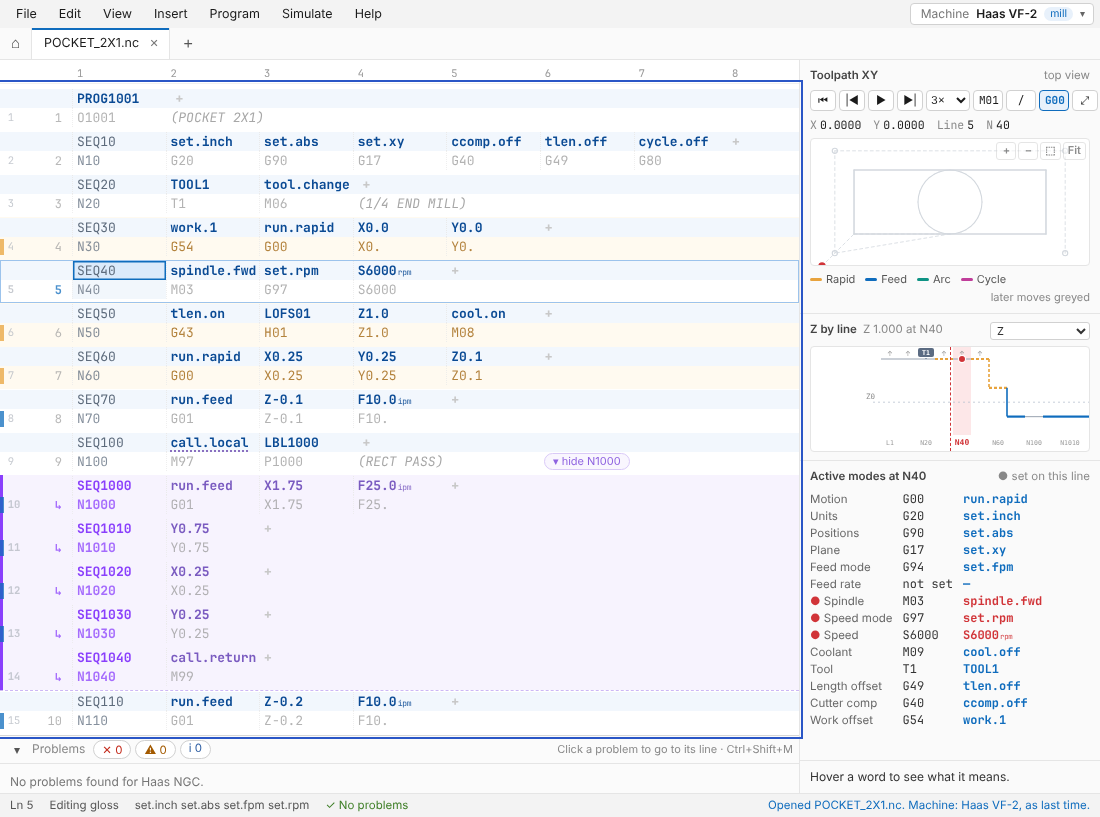
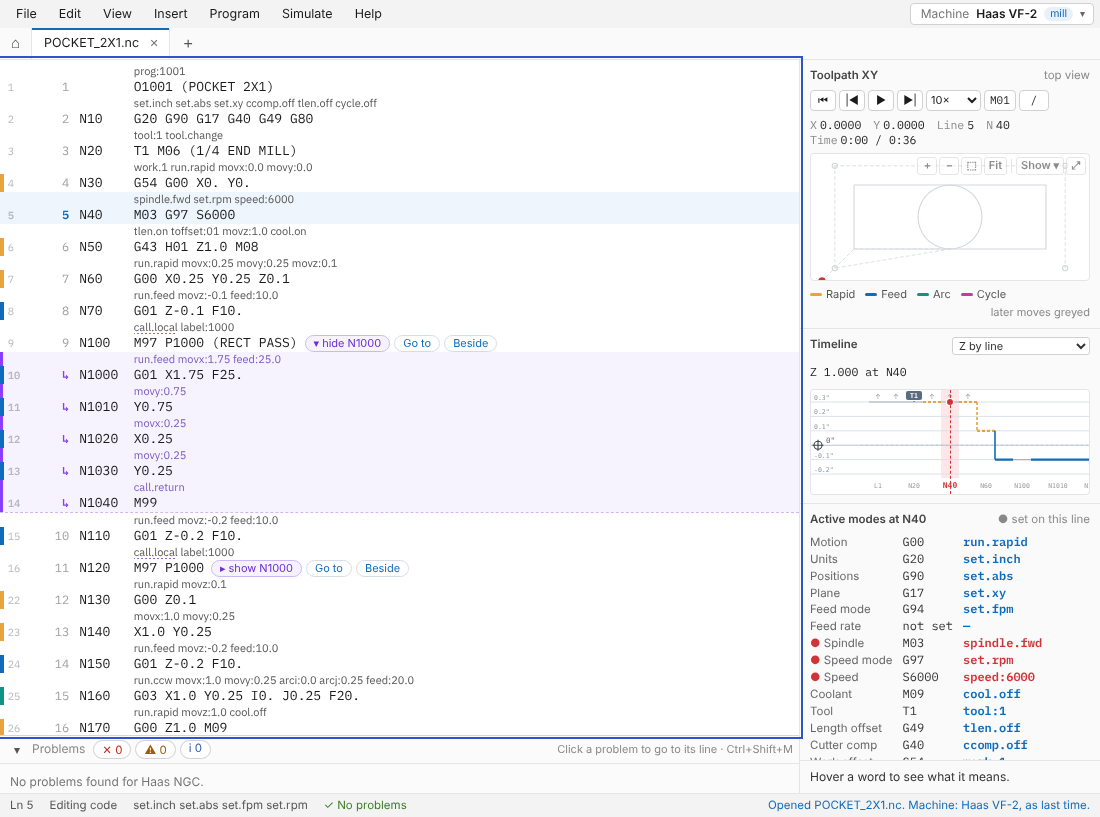
Retake README pictures from the current app
The README pictures were taken before the gloss-above-code text view,
the IBM Plex fonts, the new menus and the sim time display. Retake a
smaller set of eight from the sample programs: editor, simulation,
Problems panel, lathe, subprogram pane, Insert cycle, New program
picker and Convert. Drop the pictures no longer used, and fix the
"grey italics" wording and the mention of the removed older layouts.

Claude-Session: https://claude.ai/code/session_01DvnM2DC3NEwT8bToAWuf9H

diff --git a/README.md b/README.md
@@ -10,11 +10,11 @@ GlossCode is a G-code editor that shows a gloss line in plain English above ever
 >
 > **Supported controls.** The tables were checked against programming manuals for: Haas (NGC, classic and 1995 controls), Fanuc 0i-F/0i-D and Series 0, Okuma OSP mills and lathes (P300M, P200L, E100L, U10L and OSP700L), LinuxCNC, Tormach PathPilot, GRBL, Centroid CNC12, Mazak EIA/ISO, Hurco WinMax NC (ISNC), Mitsubishi M800/M80 mills and lathes and the M700/M70 M2/M0 format, Fanuc Custom Macro B expressions (from the 21i manual), Fagor 8055 mills and lathes, Fagor 8060/8065 mills and lathes (the lathe a first draft, still marked unverified), Heidenhain TNC 640 Klartext (a first draft, still marked unverified) Siemens SINUMERIK ISO mode, and Hypertherm Phoenix/EDGE plasma (still marked unverified). How sure we are of each is in [`docs/manual-reviews/control-confidence.md`](docs/manual-reviews/control-confidence.md). Some features of each are still unchecked; the reviews in [`docs/manual-reviews/`](docs/manual-reviews/) list them. **Any other control** (for example Heidenhain ISO programs, native Siemens programs, wire EDM, laser or waterjet) **hasn't been checked against a manual.** On those, GlossCode uses generic Fanuc-style rules, which may not match what your control does.
 
-![GlossCode editor mockup](docs/images/editor-overview.png)
+![The GlossCode editor](docs/images/editor-overview.png)
 
 ## What it looks like
 
-Each line of code has its gloss above it in small grey italics, and its N number in a column of its own:
+Each line of code has its gloss above it in small grey text, and its N number in a column of its own:
 
 ```
        spindle.fwd set.rpm speed:6000
@@ -26,41 +26,17 @@ N50    G43 H01 Z1.0 M08
 
 The gloss words come from a dictionary of consistent abbreviations ([`data/gcode-words.json`](data/gcode-words.json)). Each code has a full word and a short one. Full words (the default) name what the code does as a group, then the action, such as `run.rapid` (G00), `run.feed` (G01), `set.inch` (G20), `tlen.on` (G43) and `cycle.peck` (G83). There are 20 fixed groups: `run` is for moves and other things the machine does on that line, `set` for modes that stay in effect, `cycle` for canned cycles, `call` and `flow` for subprograms and jumps, `prog` for the program itself, and a feature name (`spindle`, `cool`, `tool`, `tlen`, `ccomp`, `work`, `probe`, `thread`, `torch` and others) for the rest. Short words are the compact style: 3 to 8 characters, made from the group's core letters, an optional alternate and the option (`SFWD` spindle forward, `S2FWD` on the second spindle, `CON` coolant on, `TLON`, `WRK1` for G54, `INCH` and `INCR`). Two letters are used only for a standard abbreviation or a two-letter word (`MM`, `XY`, `IF`, `DO`). Codes that only some controls have are underlined with dots. A word with a value is its name, a colon and the value in full words (`tool:1`, `toffset:01`, `movz:1.0`, `speed:6000`), and the name and value run together in short words (`T1`, `H01`, `Z1.0`, `S6000`). N numbers read as written (`N40`). Numbers always show their decimal point (`X1.` reads `X1.0`), and a distance written without one is shown the way the control reads it, so `X1` reads `X0.0001`. Full words leave the unit off (`speed:600`); the info panel says whether it's RPM or surface speed. Short words keep a small unit that follows the active modes, so `S600` reads `S600 rpm` under G97 and `S600 sfm` under G96.
 
-| Full words | Short words | Gloss only |
-|---|---|---|
-| ![Full words](docs/images/editor-overview.png) | ![Short words](docs/images/short-words.png) | ![Gloss only](docs/images/gloss-only.png) |
-
-| Simulation | Find |
+| Simulation | Problems panel |
 |---|---|
-| ![Simulation](docs/images/simulation.png) | ![Find](docs/images/find.png) |
+| ![Simulation partway through a program, with the run time](docs/images/simulation.png) | ![Problems panel with mistakes found on purpose](docs/images/problems.png) |
 
-| Problems panel | Lathe checks | Okuma mill |
-|---|---|---|
-| ![Problems panel](docs/images/problems.png) | ![Lathe checks](docs/images/lathe-checks.png) | ![Okuma mill](docs/images/okuma-mill.png) |
-
-| Expanded simulation view |
-|---|
-| ![Expanded simulation view](docs/images/simulation-expanded.png) |
-
-| Word hints | Canned cycle guide | End of block |
-|---|---|---|
-| ![Word hints](docs/images/word-hints.png) | ![Canned cycle guide](docs/images/cycle-guide.png) | ![End of block](docs/images/end-of-block.png) |
-
-| Home page | New program: pick a machine |
+| Lathe | Subprogram beside the program |
 |---|---|
-| ![Home page with recent programs](docs/images/home-page.png) | ![Choosing the machine for a new program](docs/images/machine-picker.png) |
+| ![A lathe program with the XZ toolpath and X timeline](docs/images/lathe.png) | ![A subprogram open in the pane beside the program](docs/images/subprogram-beside.png) |
 
-| Machine picker | Machine profiles | Open dialog |
-|---|---|---|
-| ![Machine picker](docs/images/machine-menu.png) | ![Machine profiles](docs/images/machine-profiles.png) | ![Open dialog](docs/images/native-open-dialog.png) |
-
-| Hole pattern: grid | Hole pattern: bolt circle | Holes inserted |
-|---|---|---|
-| ![Hole pattern grid](docs/images/hole-pattern-grid.png) | ![Hole pattern bolt circle](docs/images/hole-pattern-circle.png) | ![Holes inserted](docs/images/hole-pattern-inserted.png) |
-
-| Insert menu (lathe) | Insert a drilling cycle | Insert a roughing cycle |
-|---|---|---|
-| ![Insert menu](docs/images/insert-menu.png) | ![Insert a drilling cycle](docs/images/insert-cycle.png) | ![Insert a roughing cycle](docs/images/insert-cycle-lathe.png) |
+| Insert a canned cycle | New program: pick a machine |
+|---|---|
+| ![Insert a peck drilling cycle](docs/images/insert-cycle.png) | ![Choosing the machine for a new program](docs/images/machine-picker.png) |
 
 | Convert to another control |
 |---|
@@ -72,7 +48,7 @@ The gloss words come from a dictionary of consistent abbreviations ([`data/gcode
 - Menu bar (File, Edit, View, Insert, Program, Simulate), undo and redo, and Find that matches both code and gloss.
 - Starts on a home page with recent programs, New program and Open. Each open program gets a tab, and each tab remembers its machine and the selected line and word.
 - A new program asks which machine it's for. A file opened before reopens with the same machine; any other file uses the default machine for its extension (.nc, .MIN…) if one is set, and otherwise asks, with the controls the file looks written for (from its extension and its text: CALL and RTS mean Okuma, BEGIN PGM Klartext) suggested at the top.
-- The default layout shows each line as plain text, its N number in a column on the left and the gloss above it in small grey italics (`speed:2100 spindle.fwd` over `S2100 M03`). Click a line and type, as in any text editor; the gloss follows. In the older layouts (View › Layout) either line can be edited: View › Edit in switches between typing code (the default) and typing gloss. Typing gloss has autocomplete from the dictionary (type `cool` to get `cool.on`, `cool.off`, `cool.thru` and the other coolant words the machine has).
+- The default layout shows each line as plain text, its N number in a column on the left and the gloss above it in small grey text (`speed:2100 spindle.fwd` over `S2100 M03`). Click a line and type, as in any text editor; the gloss follows.
 - Keyboard editing by word: arrows move between words and lines, Enter edits and Enter again finishes, Space starts the next word, Shift+Enter breaks the line. Pasting a few lines or a whole program puts each line in its own row and each word in its own cell. Drag across lines (or Shift+↑↓) and right-click to copy, cut or duplicate them; Ctrl+D duplicates a section.
 - Grey hint text after a code shows the words it still needs (`G02` shows `R## or I## J##`). Click one to fill it in; picking R hides I and J.
 - A canned cycle guide (F1) with a sketch of each cycle, an example line, and what every word does.

diff --git a/docs/features.md b/docs/features.md
@@ -9,7 +9,7 @@ This list tracks what the mockup shows. Nothing is implemented yet.
 - [ ] Full words (`run.feed`, `set.inch`, `cycle.peck`, `machine.tailstock.in`: one of a fixed set of groups, then the action, with a third part for less common codes; control-specific codes are underlined with dots) and short words (View › Gloss words)
 - [ ] Paste (Ctrl+V or Edit › Paste) splits the text the way opening a file does. One line goes in at the caret of the line being edited, or at the end of the current line. Several lines, or a whole program, go in as their own lines below the current one, or replace it when it's blank
 - [ ] Select whole lines by dragging the mouse across them, Shift+↑↓ or Shift+click (Ctrl+A selects all). Right-click, or Ctrl+C / Ctrl+X, copies or cuts them as code text, the same as Save writes it, with no gloss. Ctrl+D duplicates them below; Ctrl+V pastes over them; Delete removes them
-- [ ] Code with gloss above: each line as plain text with its N number in its own column and the gloss above in small grey italics, not selectable; N numbers and comments aren't repeated in the gloss. Click to place the caret; Enter breaks the line, Backspace/Delete at the ends join lines, Esc undoes the line's changes
+- [ ] Code with gloss above: each line as plain text with its N number in its own column and the gloss above in small grey text, not selectable; N numbers and comments aren't repeated in the gloss. Click to place the caret; Enter breaks the line, Backspace/Delete at the ends join lines, Esc undoes the line's changes
 - [ ] Problem lines tinted yellow (warning), orange (error) or red (machine alarm) with the word at fault underlined; one dismissable banner for controls whose rules are a first draft
 - [ ] Grey hints in the gloss for the words a code still needs (`G83` shows `movz:? rplane:? peck:?`). Typing R hides I and J; typing I hides R but keeps J
 - [ ] Mode-clash warnings in the status bar
